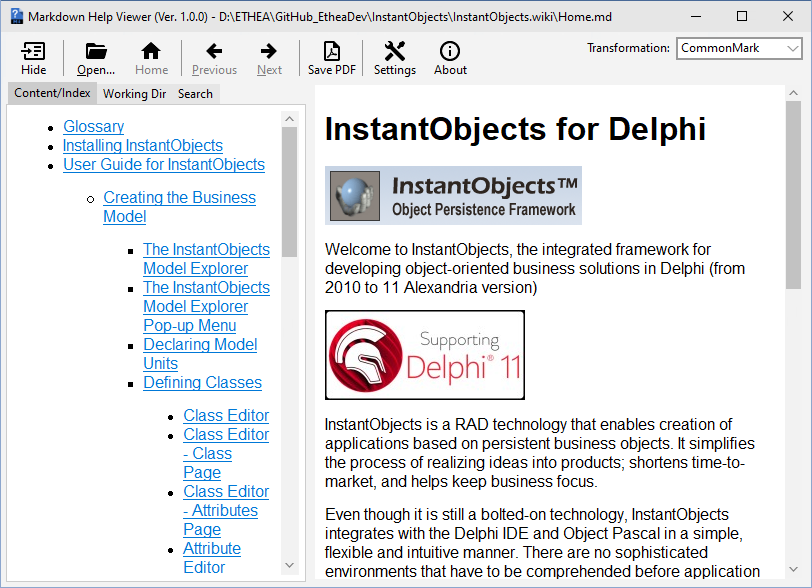
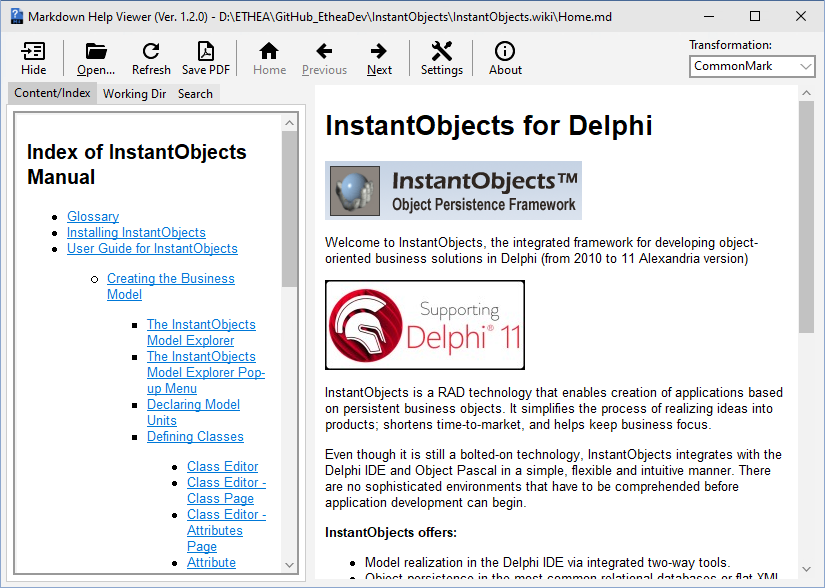
ver.1.2.0 - Restored "Settings" function on Viewer - Fixed Component loading content from MarkdownContent property - Fixed Component loading images using FileName (now searches in same folder)

Changed region(s): [[0.0, 0.0, 1.0, 1.0], [0.9544, 0.4898, 0.9852, 0.5816]]

diff --git a/README.md b/README.md
@@ -1,6 +1,6 @@
 # Markdown Help Viewer [![License](https://img.shields.io/badge/License-Apache%202.0-yellowgreen.svg)](https://opensource.org/licenses/Apache-2.0)
 
-**Latest Version 1.1.0 - 29 Jun 2023**
+**Latest Version 1.2.0 - 30 Jun 2023**
 
 **An integrated help system based on files in Markdown format (and also html), for Delphi applications**
 
@@ -93,6 +93,11 @@ Then the interface searches in the same folder of default file (specified into A
 - At least, try the Help Name and the Keyword with underscore (eg.Home_1000.md, Home_MainForm.md)
 
 ## Release Notes ##
+
+30 Jun 2023: ver. 1.2.0
+- Restored "Settings" function on Viewer
+- Fixed Component loading content from MarkdownContent property
+- Fixed Component loading images using FileName (now searches in same folder)
 
 29 Jun 2023: ver. 1.1.0
 - Refactoring Folder/Source position (some files moved)
